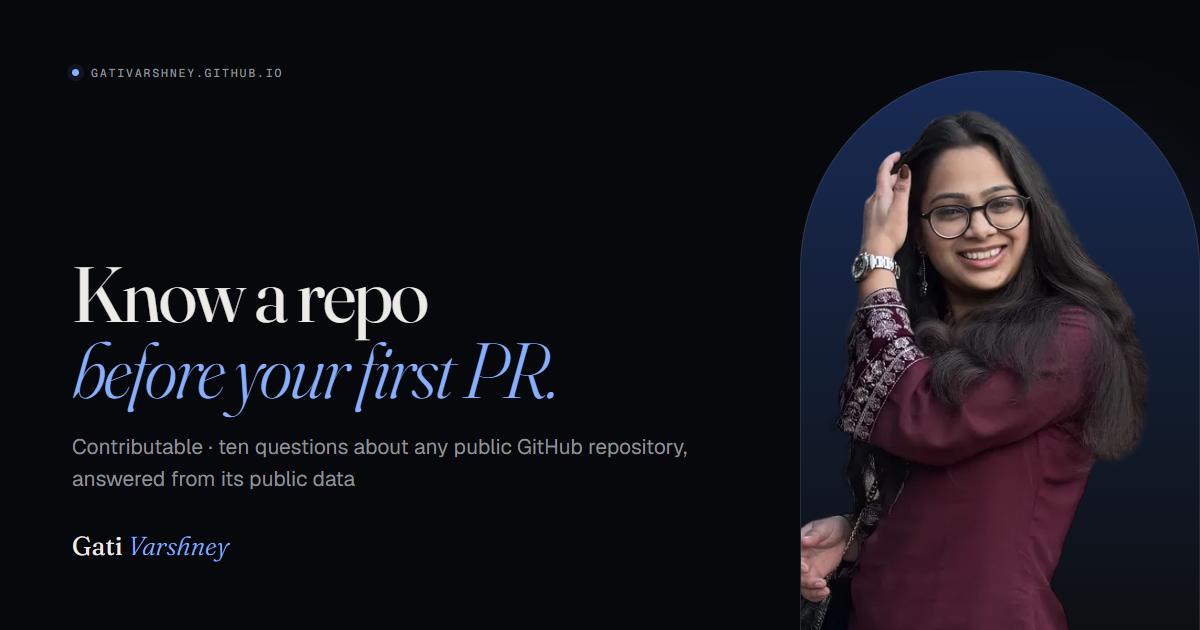
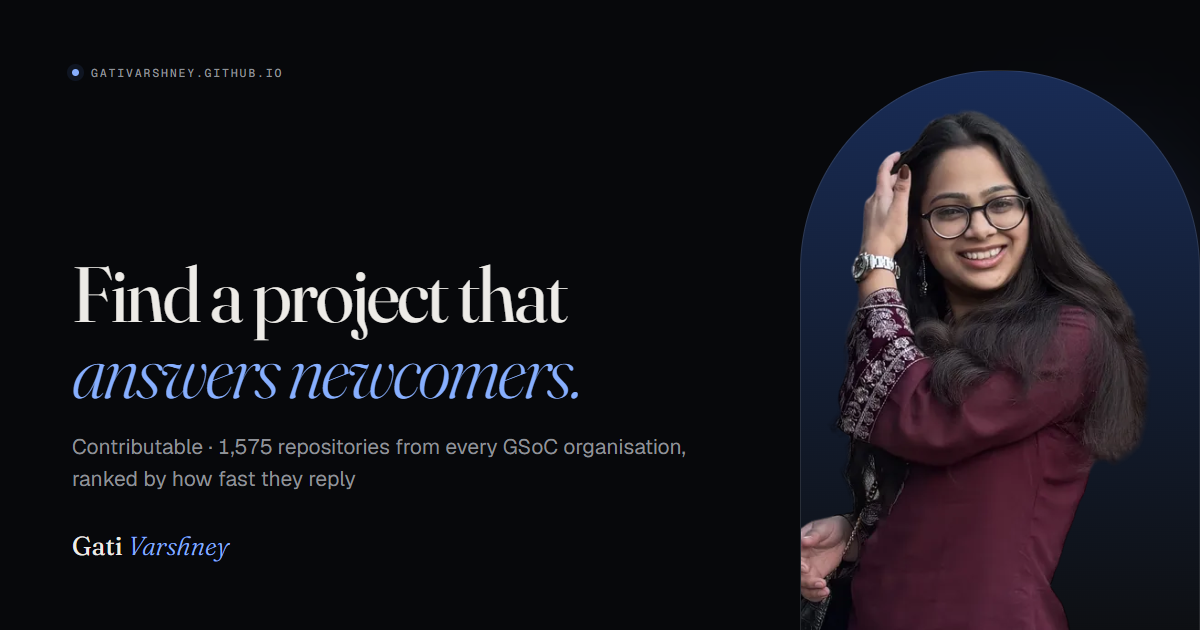
Contributable: rewrite the project and case study for the GSoC-wide index

diff --git a/src/data/casestudies.ts b/src/data/casestudies.ts
@@ -20,6 +20,7 @@ export type CaseStudy = {
 
 const CIDX = 'https://github.com/gativarshney/cidx';
 const RI = 'https://github.com/gativarshney/contributable';
+const APP = 'https://contributable.vercel.app';
 const OP = 'https://github.com/OpenPrinting/openprinting.github.io/pull/';
 const REPORT = 'https://medium.com/@gativarshney/gsoc-2026-final-report-ai-driven-printer-compatibility-recommendation-portal-9283d6fe2a5c';
 const STAGING = 'https://github.com/rudra-iitm/openprinting.github.io/pull/';
@@ -87,62 +88,61 @@ export const caseStudies: Record<string, CaseStudy> = {
   contributable: {
     slug: 'contributable',
     problem: [
-      'Before a first pull request, a contributor has to guess what a project is like. Is anyone replying? Do pull requests from outside the team get merged? Is there something small to start on? Finding out usually means clicking through commits, issues and pull requests and forming an impression.',
-      'Contributable reads the same public data and answers the questions a contributor is advised to ask first. It is deliberately not a chatbot, not a GitHub clone, and it does not produce a health score. Every answer is calculated by a fixed rule and shows how it was worked out.',
+      'New contributors pick the most famous project, open a pull request, and wait. Research on newcomer onboarding keeps finding the same two obstacles: nobody replies, and it is hard to find a task that is not already taken. Stars say nothing about either.',
+      'Contributable measures both and lets you search by them. It indexes the repositories of every Google Summer of Code organisation from 2024 to 2026, measures how each one treats people outside its core team, and publishes the result as a website, an open dataset and an API. Any other public repository can be checked on the spot.',
+      'It started as a single-repository report and grew in four days into an index: a scheduled pipeline, fifteen pages, a public API, README badges and Atom feeds.',
     ],
     pipeline: {
-      title: 'From a pasted URL to an answer you can check',
+      title: 'From the GSoC programme list to a page that never waits on GitHub',
       steps: [
-        'A small client talks to the GitHub REST API: error mapping, pagination headers, an auth header when a server token exists. Fetchers call twelve endpoints, in parallel where they are independent, and normalise the responses into typed records that carry their own coverage: complete, or covered since a date.',
-        'Analysis functions are pure. They take structured input plus an explicit “now”, with no React and no network, so the same dataset always gives the same result and every function can be tested alone. Because they run wherever fetch does, the browser can take over from the server.',
-        'A checklist of ten questions, taken from GitHub’s Open Source Guide, is answered from those numbers. Each has one fixed rule printed in the report, and there are three answers: yes, no, and not enough data.',
-        'A report runner orchestrates the requests and emits progress events.',
-        'The analyze endpoint caches finished reports for an hour, throttles any one address, and streams events to the browser as newline-delimited JSON, so the loading screen ticks off each real request group instead of showing a spinner.',
-        'The report has seven sections, each answering one question with one chart: the checklist, where to start, what happens to a pull request, who you will work with, when someone will see your question, the codebase, and whether the project is alive, with a 3D skyline of daily commits.',
+        'The universe: the organisations of every GSoC year from 2024 to 2026, mapped to their GitHub accounts. Umbrella organisations whose work lives elsewhere are mapped by hand, and those that cannot be mapped are listed as not measured rather than ranked last.',
+        'Discovery picks up to 12 of each organisation’s most starred repositories that are not forks, archives or mirrors, were pushed in the last 180 days and have at least 5 pull requests.',
+        'A scheduled job in GitHub Actions starts four times an hour. It reads the GitHub GraphQL API with the token Actions provides, spends that hour’s allowance on the stalest repositories, and stops before the limit. A first read fetches a year of pull requests and issues; later reads fetch only what changed.',
+        'Pure functions turn that into figures for pull requests from outside contributors: the merge rate, the first reply time estimated with Kaplan-Meier so unanswered pull requests count as still waiting, time to merge, starter issue states, reply hours and a four-week trend. Bots are removed by account type, name and behaviour.',
+        'The job commits everything to a data branch as one snapshot, published under CC BY 4.0. Author names are stored only as one-way hashes.',
+        'The Next.js site on Vercel reads those files through the framework’s fetch cache, so a page view never calls GitHub and never waits on it. The same data serves Explore, the GSoC ranking, repository pages, the issue finder, matching, comparison, the API, README badges and Atom feeds.',
       ],
-      note: 'Calculated, not generated.',
+      note: 'No blended score. Every ranking states its rule on the page.',
     },
     evidence: [
-      { claim: 'Live, with no sign-in', value: 'contributable.vercel.app', context: 'paste any public GitHub repository; the visitor is never asked for an account or a token', source: { label: 'open the app', href: 'https://contributable.vercel.app' } },
-      { claim: 'Test suite', value: '118 tests', context: 'unit, integration against a stubbed GitHub, and pipeline tests; CI runs formatting, lint, typecheck, tests and a production build on every push. Passing from a fresh clone on 2026-10-03', source: { label: 'README · testing', href: `${RI}#testing` } },
-      { claim: 'Contributor checklist', value: '10 questions', context: 'after GitHub’s Open Source Guide; each answered yes, no or not enough data against a rule printed in the report', source: { label: 'checklist.ts', href: `${RI}/blob/main/src/lib/insights/checklist.ts` } },
-      { claim: 'Data read per report', value: '12 GitHub REST endpoints', context: 'a small repository costs 11 or 12 requests, plus one for each starter issue checked, four at most', source: { label: 'README · data sources', href: `${RI}#github-data-sources` } },
-      { claim: 'Running cost', value: 'no database · no paid API · no AI', context: 'the only limit is GitHub’s free allowance: 60 requests an hour without a token, 5,000 with one', source: { label: 'README · cost and scaling', href: `${RI}#cost-and-scaling` } },
-      { claim: 'Grounded in research', value: '4 cited sources', context: 'newcomer barriers, abandoned pull requests, time to first response, and GitHub’s Open Source Survey, each mapped to something the report measures', source: { label: 'README · why it exists', href: `${RI}#why-it-exists` } },
-      { claim: 'Stack and licence', value: 'TypeScript · Next.js 16 · React 19 · three.js', context: '54 commits; MIT licence; deployed on Vercel’s free tier', source: { label: 'commit history', href: `${RI}/commits/main` } },
+      { claim: 'Index size', value: '1,575 repositories', context: '253 GSoC organisations from 2024 to 2026, 111 languages; live status on 2026-10-04', source: { label: 'live status API', href: `${APP}/api/v1/status` } },
+      { claim: 'Freshness', value: 'sweep 4× an hour', context: 'every indexed repository was refreshed within two days on 2026-10-04; each run spends one hour’s allowance, stalest first', source: { label: 'status page', href: `${APP}/status` } },
+      { claim: 'Test suite', value: '210 tests · 12 files', context: 'survival estimate, merge and reply metrics, starter issue states, trends, the explore query, the GSoC ranking rule, matching and discovery; passing from a fresh clone on 2026-10-04', source: { label: 'README · testing', href: `${RI}#testing` } },
+      { claim: 'Reply-time estimate', value: 'Kaplan-Meier', context: 'a pull request nobody answered stays in the estimate as still waiting, so ignoring people makes the figure worse instead of dropping out', source: { label: 'methodology', href: `${APP}/methodology` } },
+      { claim: 'Sample-size rule', value: 'under 5 → “Not enough data”', context: 'every figure shows its sample and links to the pull requests or issues it counted', source: { label: 'README · what is measured', href: `${RI}#what-is-measured` } },
+      { claim: 'Open data and API', value: 'CC BY 4.0 · /api/v1', context: 'the full index on a data branch, a read-only API, README badges and Atom feeds of available issues', source: { label: 'data branch', href: `${RI}/tree/data` } },
+      { claim: 'Running cost', value: 'none', context: 'no database, no paid API, no card on file: GitHub Actions for the job, static files and cached reads on Vercel’s free tier', source: { label: 'README · cost', href: `${RI}#cost` } },
+      { claim: 'Scale of the build', value: '136 commits · 15 pages', context: 'TypeScript, Next.js 16, React 19, three.js; code under AGPL-3.0 with an author-credit notice', source: { label: 'commit history', href: `${RI}/commits/main` } },
     ],
     decisions: [
-      { title: 'A count of checks, not a health score', body: 'The headline is the number of rules that pass. It is not weighted and it is not a score. A single number would hide which signal is missing; ten answers can each be opened and checked.' },
-      { title: 'Fixed rules, nothing generated', body: 'Every figure is a formula over public data. That makes a report reproducible, testable, and free to run, and it means two people looking at the same repository see the same answer.' },
-      { title: 'A yes can be proven, a no cannot', body: 'Very busy repositories have more history than the reading limit allows. A list cut short is still exact for the period it covers, so a rule of the form “at least N” is answered yes as soon as the partial count reaches N. A no is only given when the whole period was read. Otherwise the answer is “not enough data”, which is never shown as a no.' },
-      { title: 'A bot is not a reply', body: 'Research on pull requests finds that bots often post the first response. A first reply therefore counts only another person’s comment, an inline review comment, or the merge.' },
-      { title: 'Timing is a project pattern, never one person’s', body: 'The week-by-hour heatmap pools every team comment and is never broken down by person. It is dropped when fewer than three team members commented, because it would then be one maintainer’s schedule.' },
-      { title: 'Four ways to stretch a free API', body: 'A server token raises the allowance from 60 to 5,000 requests an hour. Finished reports are cached for an hour and shared between visitors. If the server’s allowance runs out, the visitor’s own browser reads GitHub directly, so that path grows with the audience instead of being divided among it. And one address may start 20 fresh analyses in ten minutes before it is sent down that same path.' },
+      { title: 'A scheduled pipeline, not live requests', body: 'The first version read GitHub when someone opened a report, which tied every page view to a rate limit. Now a job in GitHub Actions does all the reading and commits the result to a data branch; the website only reads files. Pages are fast, the free API allowance is spent on keeping the index fresh, and the whole system costs nothing to run.' },
+      { title: 'Count the people still waiting', body: 'A plain median of reply times leaves out pull requests nobody answered, so a project that ignores half its contributors can look quick. The Kaplan-Meier estimate, the standard way to measure a wait that has not ended, keeps them in as still waiting. If more than half were never answered there is no median at all.' },
+      { title: 'No blended score, and every ranking states its rule', body: 'The GSoC ranking orders organisations by the share of pull requests answered within 7 days, then by outside merge rate, and prints that rule on the page. Nothing is rolled into one health number, because there is no defensible way to weigh the signals for every project.' },
+      { title: 'Describe projects, never people', body: 'Author names are stored as one-way hashes and nothing is published per person. Reply hours pool the whole team and are withheld when fewer than three people replied, because the chart would then be one maintainer’s schedule. Maintainers can ask for a repository to be removed.' },
+      { title: 'A cohort old enough to judge', body: 'Merge rates use pull requests opened 30 to 120 days ago. Newer ones have not had time to be answered or merged, and including them would make every project look worse than it is.' },
+      { title: 'Open by default', body: 'The dataset is on a public branch under CC BY 4.0 with a read-only API, so anyone can check a figure against GitHub or build on it. The code is AGPL-3.0, so a copy run as a website must publish its source and keep the author credit.' },
     ],
     wentWrong: [
-      { title: 'Busy repositories produced partial numbers', body: 'Very active repositories exceed the page limit, so a 30 or 90 day window was only partly fetched and its total came out too small. Lists now record whether they are complete and how far back they reach, which is what the partial-data rules are built on.' },
-      { title: 'Answered pull requests looked unanswered', body: 'The first version read only conversation comments, so a pull request answered through inline review looked ignored. Inline review comments are now fetched too. A review that only approves, without a comment, is still not seen.' },
-      { title: 'Projects with modern issue templates were told they had none', body: 'GitHub’s community profile only reports the old single-file issue template. When it reports none, the .github/ISSUE_TEMPLATE folder is now checked directly; without that, most projects with template folders or issue forms were shown as missing them.' },
-      { title: 'Reply timing could have shown one person’s schedule', body: 'In a small project the heatmap of when the team comments was effectively one maintainer’s working hours. It is now shown only as a pooled pattern from three or more people.' },
-      { title: 'Every visitor shared one rate limit', body: 'Without a token, all visitors drew on the same 60 requests an hour. The fix came in stages: a server token, a shared cache of finished reports, the fallback to the visitor’s own allowance, and a per-address throttle.' },
+      { title: 'Bots made projects look fast', body: 'Bots often post the first comment on a pull request, and plenty run on ordinary accounts that GitHub does not mark as bots. Detection now works on three levels: account type, name (CI, CLA and -bot accounts), and behaviour, so an account that answers within a minute on most pull requests, or posts the same templated message again and again, no longer counts as a reply.' },
+      { title: 'GSoC organisations are not GitHub organisations', body: 'Some GSoC organisations are umbrellas whose projects live under several other GitHub accounts, and some do not work on GitHub at all. They now go through a hand-checked mapping file; the ones that cannot be mapped are listed as not measured instead of being ranked last for silence.' },
+      { title: 'Small organisations topped the ranking', body: 'An organisation with a handful of pull requests could post a perfect reply rate by chance. A place in the ranking now needs 20 outside pull requests; smaller organisations are listed after it with their figures.' },
+      { title: 'Changed definitions left stale results', body: 'When a definition changed, repositories already stored were still shown under the old rules until their turn came round. Results now record which rules produced them, are re-read when those rules change, and a share of each run’s budget is reserved for those full re-reads.' },
     ],
     limitations: [
-      'Public data only. Private forks, internal trackers and chat are invisible.',
-      'Replies are seen as comments and merges. A review that only approves, without a comment, is not read, so some answered pull requests show as “closed, no reply seen”.',
-      'Only GitHub’s two default starter labels are checked. Projects with their own labels show no starter issues.',
-      'Closed without merging includes withdrawn, duplicate and low-quality submissions.',
-      'Organisation members with private membership cannot be told apart from community authors.',
+      'Projects that review on a mailing list, Gerrit or GitLab look silent here; organisations that do not work on GitHub are listed as not measured.',
+      'A bot that fits none of the detection rules still counts as a person and makes a project look faster than it is.',
+      'GitHub only marks someone as a member when their membership is public, so a core developer with private membership counts as an outside contributor.',
+      'A reply from another outside contributor counts as a human reply. It is an answer, but not a maintainer’s.',
+      'Claims on starter issues are detected from English comment wording; a claim written differently is missed.',
+      'A pull request answered only by an approving review, without a comment, looks unanswered.',
       'Tone is not measured. Nothing here tells you whether a community is welcoming.',
-      'Activity is not quality. Nothing here measures correctness, security or test coverage.',
     ],
     next: [
       'Read approving reviews, so pull requests answered only by a review count as answered.',
-      'Show who actually merges, to reveal when review depends on one person.',
-      'Detect a project’s own starter labels instead of only GitHub’s defaults.',
-      'Tag-based release detection when a project does not use GitHub Releases.',
-      'Shareable, versioned report snapshots.',
+      'Measure projects that review on GitLab or Gerrit instead of listing them as not measured.',
+      'Detect claims on starter issues written in languages other than English.',
     ],
-    lastVerified: '2026-10-03',
+    lastVerified: '2026-10-04',
   },
 
   'printer-recommendations': {

diff --git a/src/data/diagrams.ts b/src/data/diagrams.ts
@@ -41,30 +41,33 @@ export const diagrams: Record<string, Diagram> = {
     ],
   },
 
-  // after the Architecture section of the Contributable README and src/lib
+  // after the Architecture section of the Contributable README
   contributable: {
-    alt: 'Contributable architecture: a client and fetchers read the GitHub REST API into typed records; pure analysis functions calculate metrics; a checklist is answered from them; a report runner emits progress; an endpoint caches, throttles and streams events to the browser, which renders the report.',
+    alt: 'Contributable architecture: the GSoC organisation list is mapped to GitHub repositories; a scheduled job in GitHub Actions reads the GitHub GraphQL API and computes the figures; the result is committed to a data branch; the Next.js site on Vercel reads those files and serves pages, an API, badges and feeds without calling GitHub.',
     rows: [
-      { source: { id: 'gh', label: 'GitHub REST API', sub: 'public data · twelve endpoints · no visitor token', subN: 'public data · 12 endpoints' } },
-      { full: { id: 'fetch', n: '01', label: 'Client and fetchers', sub: 'error mapping, pagination · typed records that carry their own coverage', subN: 'typed records, with coverage' } },
-      { full: { id: 'analysis', n: '02', label: 'Analysis', sub: 'pure functions with an explicit “now” · no React, no network', subN: 'pure functions · explicit now' } },
+      { source: { id: 'gsoc', label: 'GSoC organisations, 2024–2026', sub: '253 organisations · umbrella ones mapped by hand', subN: '253 organisations' } },
+      { full: { id: 'disc', n: '02', label: 'Discovery', sub: 'up to 12 active repositories each · no forks, archives or mirrors', subN: 'up to 12 repos each' } },
       {
-        left: { id: 'metrics', n: '02', label: 'Metrics', sub: 'replies, pull request outcomes, people, timing', subN: 'the figures' },
-        right: { id: 'checklist', n: '03', label: 'Checklist', sub: 'ten questions · yes, no or not enough data', subN: 'ten questions' },
+        left: { id: 'gql', label: 'GitHub GraphQL', sub: 'public data only', subN: 'public data' },
+        right: { id: 'sweep', n: '03', label: 'Sweep job', sub: 'GitHub Actions · 4× an hour', subN: 'Actions · 4× an hour' },
       },
-      { full: { id: 'run', n: '04', label: 'Report runner', sub: 'orchestration · progress events · runs on the server or in the browser', subN: 'orchestration · progress' } },
-      { full: { id: 'api', n: '05', label: '/api/analyze', sub: 'hour-long shared cache · per-address throttle · NDJSON stream', subN: 'cache · throttle · stream' } },
-      { full: { id: 'ui', n: '06', label: 'Report, in the browser', sub: 'seven sections, one question and one chart each · 3D commit skyline', subN: 'seven sections, one chart each', accent: true } },
+      { full: { id: 'metrics', n: '04', label: 'Metrics, as pure functions', sub: 'merge rate · Kaplan-Meier reply time · bots removed · starter states · trends', subN: 'merge rate · reply time · trends' } },
+      { full: { id: 'data', n: '05', label: 'data branch', sub: 'one snapshot commit · CC BY 4.0 · author names hashed', subN: 'snapshot · CC BY 4.0' } },
+      { full: { id: 'site', n: '06', label: 'Next.js on Vercel', sub: 'reads the files through the fetch cache · a page view never calls GitHub', subN: 'never calls GitHub' } },
+      {
+        left: { id: 'pages', label: 'Fifteen pages', sub: 'Explore · GSoC · issues · match', subN: 'Explore · GSoC · issues', accent: true },
+        right: { id: 'api', label: 'API · badges · feeds', sub: '/api/v1 · README badges · Atom', subN: 'API · badges · Atom', accent: true },
+      },
     ],
     edges: [
-      { from: 'gh', to: 'fetch', label: 'in parallel', labelN: 'requests' },
-      { from: 'fetch', to: 'analysis', label: 'typed records', labelN: 'records' },
-      { from: 'analysis', to: 'metrics' },
-      { from: 'analysis', to: 'checklist' },
-      { from: 'metrics', to: 'run' },
-      { from: 'checklist', to: 'run' },
-      { from: 'run', to: 'api' },
-      { from: 'api', to: 'ui', label: 'live progress' },
+      { from: 'gsoc', to: 'disc', label: 'organisations' },
+      { from: 'disc', to: 'sweep', label: 'repositories', labelN: 'repos' },
+      { from: 'gql', to: 'metrics', label: 'pull requests, issues', labelN: 'PRs, issues' },
+      { from: 'sweep', to: 'metrics', label: 'stalest first', labelN: 'stalest first' },
+      { from: 'metrics', to: 'data' },
+      { from: 'data', to: 'site', label: 'files' },
+      { from: 'site', to: 'pages' },
+      { from: 'site', to: 'api' },
     ],
   },
 

diff --git a/src/data/site.ts b/src/data/site.ts
@@ -138,21 +138,21 @@ export const projects: Entry[] = [
   {
     slug: 'contributable',
     title: 'Contributable',
-    kicker: 'Personal project · web app for open source contributors',
+    kicker: 'Personal project · open data and web app for open source newcomers',
     period: 'Oct 2026',
-    status: { label: 'Live on Vercel', tone: 'ok' },
-    tags: ['TypeScript', 'Next.js 16', 'React 19', 'three.js', 'GitHub REST API', 'MIT'],
+    status: { label: 'Live · refreshed through the day', tone: 'ok' },
+    tags: ['TypeScript', 'Next.js 16', 'GitHub GraphQL', 'GitHub Actions', 'three.js', 'AGPL-3.0'],
     summary:
-      'Know a repository before your first pull request. Paste a public GitHub repository and it reports where to start, who maintains it, how fast people reply, and whether outside pull requests actually get merged. Every answer is calculated by a fixed rule from public data and shows how it was worked out; there is no AI and no health score.',
+      'Find an open source project that answers newcomers. Contributable indexes the repositories of every Google Summer of Code organisation from 2024 to 2026 and measures how each treats people outside its core team: how fast a person replies to a first pull request, and how often it gets merged. A scheduled job keeps the index fresh; every figure shows its sample and links to the pull requests behind it. No blended score, no AI, no cost to run.',
     evidence: [
-      { value: '10', label: 'checklist questions, each with its rule' },
-      { value: '118', label: 'tests' },
-      { value: '0', label: 'databases, paid APIs or AI services' },
+      { value: '1,575', label: 'repositories measured' },
+      { value: '253', label: 'GSoC organisations, 2024–2026' },
+      { value: '210', label: 'tests' },
     ],
     links: [
       { label: 'Case study', href: '/projects/contributable/' },
       { label: 'Open the app', href: site.links.contributableApp, external: true },
-      { label: 'Example report', href: `${site.links.contributableApp}/sample`, external: true },
+      { label: 'GSoC ranking', href: `${site.links.contributableApp}/gsoc`, external: true },
       { label: 'Repository', href: site.links.contributableRepo, external: true },
     ],
     visual: 'contributable',
